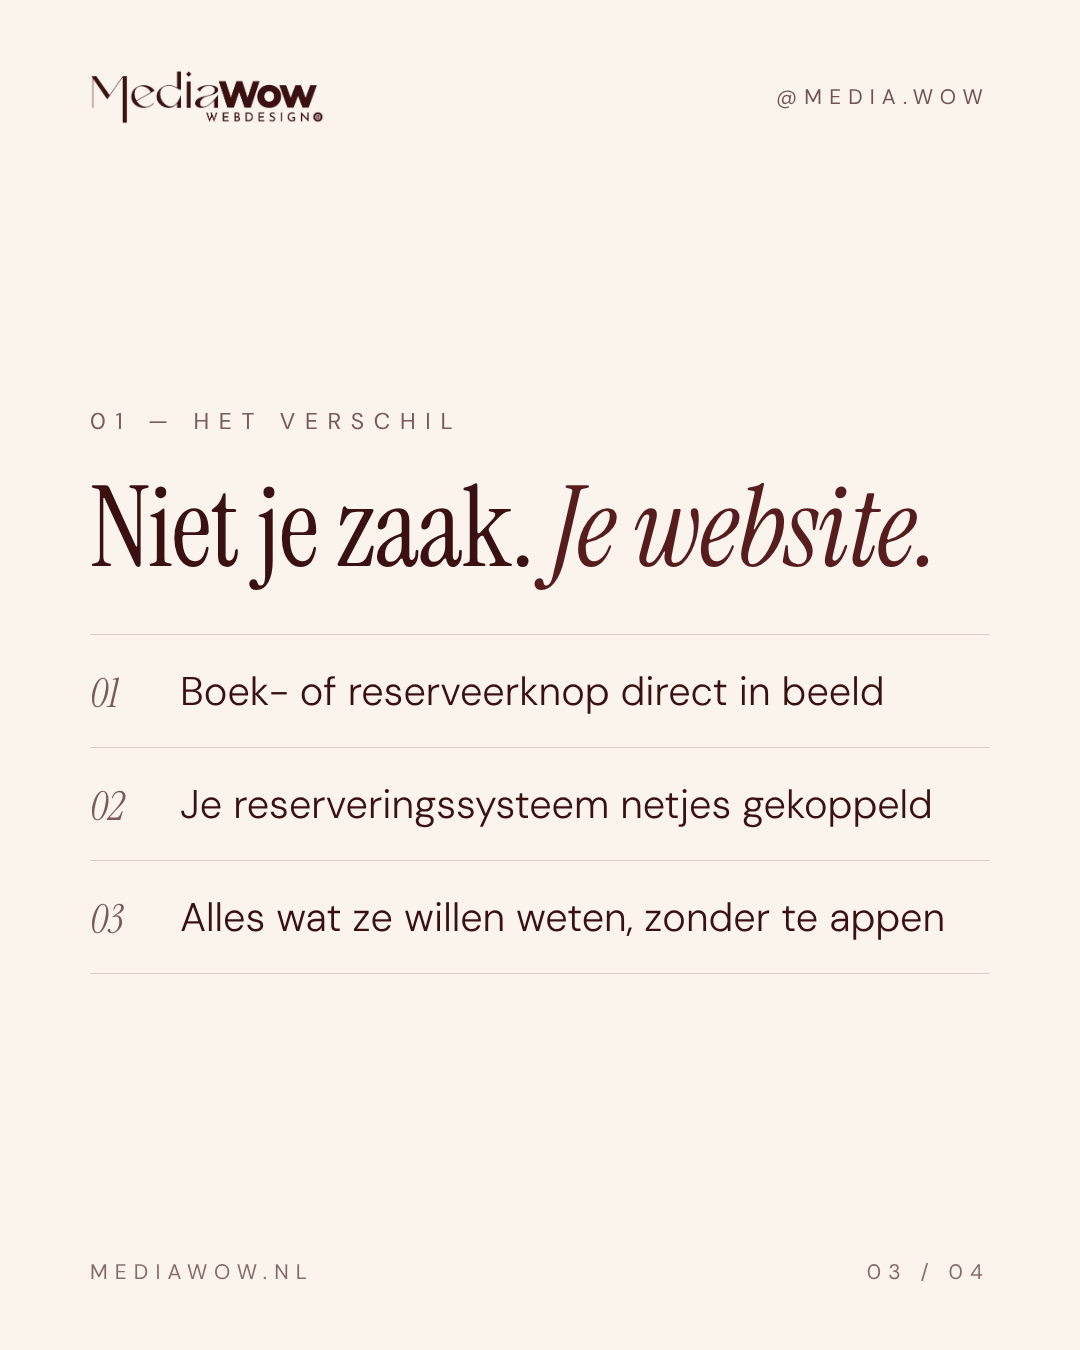
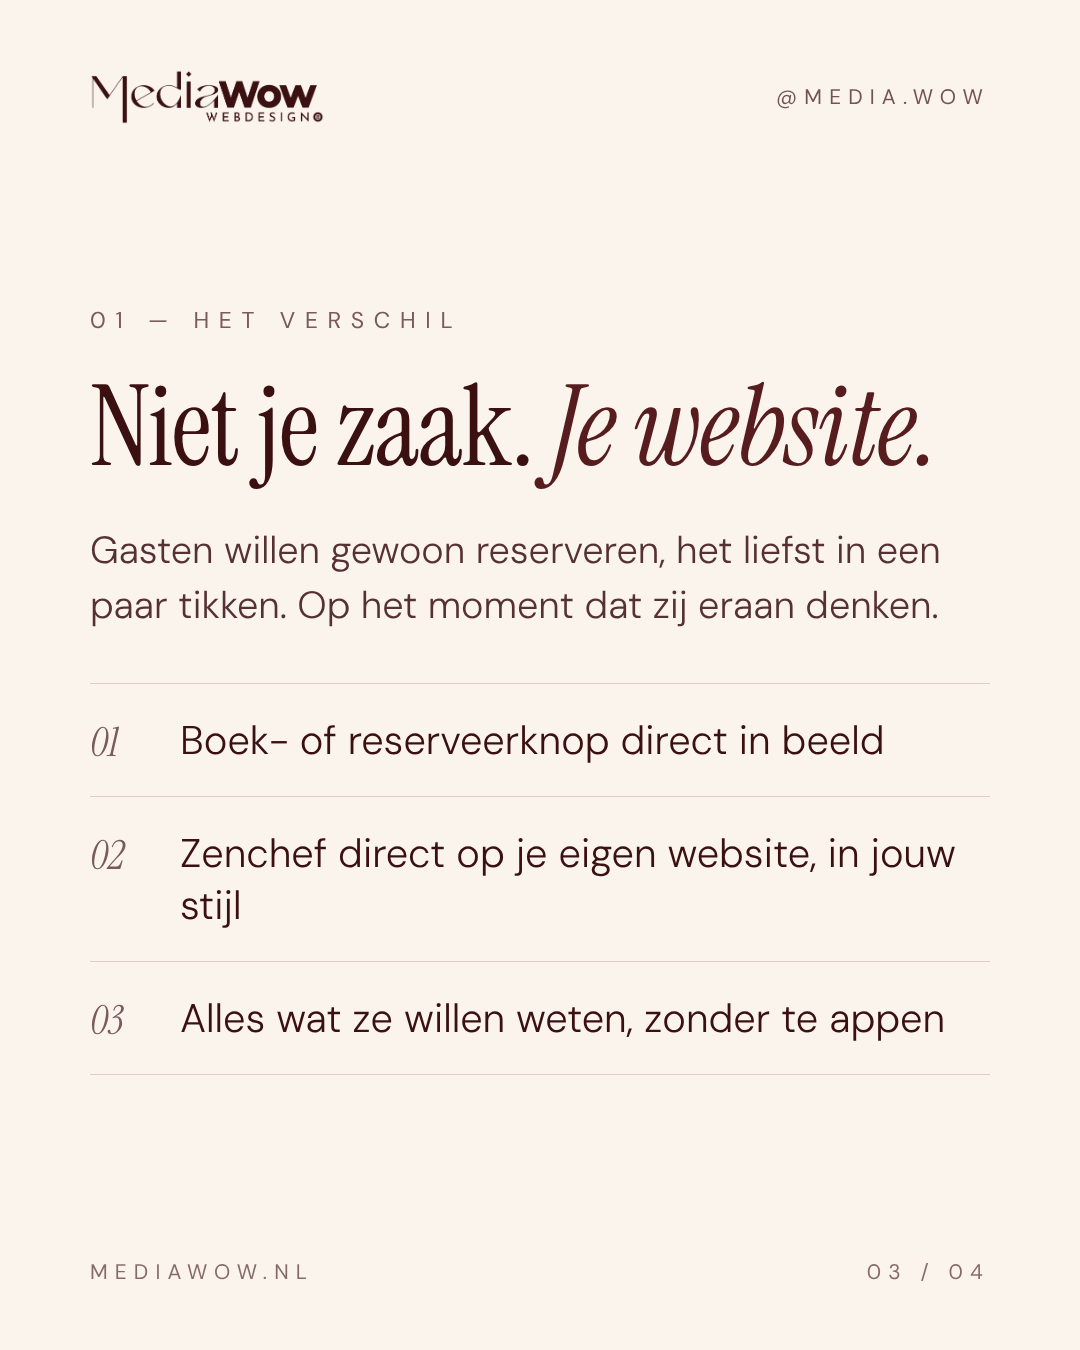
Saturday post: lockscreen full of Zenchef reservations
Claude-Session: https://claude.ai/code/session_01RBQ5c9Pv2G8CobvSf5vDwJ

diff --git a/instagram/slides.js b/instagram/slides.js
@@ -301,15 +301,17 @@ Bonnetje bewaren? Plan een vrijblijvende kennismaking via mediawow.nl (link in b
     id: '6-za-lockscreen',
     slides: [
       { theme: 'dark', html: `
-        <div class="kicker">Zaterdag, 08:30</div>
-        <h1 class="lg">Zo hoort je zaterdag <em>te beginnen.</em></h1>
+        <div class="kicker">Voor horeca · zaterdag 08:30</div>
+        <h1 class="hero">Zo zou jouw zaterdag <em>eruit moeten zien.</em></h1>
         ${phone(`
           <div class="lock"><div class="l-date">zaterdag 21 november</div><div class="l-time">08:30</div>
-            <div class="notif"><b>Reserveringen</b><small>nu</small><p>Nieuwe reservering: 4 personen, vanavond 19:30</p></div>
-            <div class="notif"><b>Boekingen</b><small>4 min</small><p>Nieuwe afspraak: knippen + kleuren, di 10:00</p></div>
-            <div class="notif"><b>Website</b><small>12 min</small><p>Nieuw contactformulier: “Hoi! Ik wil graag…”</p></div>
-            <div class="notif"><b>Reserveringen</b><small>31 min</small><p>Nieuwe reservering: 2 personen, zo 12:30</p></div>
-          </div>`, 'phone-low phone-lock')}` },
+            <div class="notif"><div class="n-ic">🍽</div><div class="n-b"><div class="n-top"><b>Zenchef</b><small>nu</small></div><p>Nieuwe reservering · 4 personen · vanavond 19:30</p></div></div>
+            <div class="notif"><div class="n-ic">🍽</div><div class="n-b"><div class="n-top"><b>Zenchef</b><small>3 min</small></div><p>Nieuwe reservering · 2 personen · vanavond 20:00</p></div></div>
+            <div class="notif"><div class="n-ic">🍽</div><div class="n-b"><div class="n-top"><b>Zenchef</b><small>11 min</small></div><p>Nieuwe reservering · 6 personen · zo 12:30 · verjaardag 🎂</p></div></div>
+            <div class="notif"><div class="n-ic">🍽</div><div class="n-b"><div class="n-top"><b>Zenchef</b><small>24 min</small></div><p>Nieuwe reservering · 2 personen · vanavond 21:00</p></div></div>
+            <div class="notif"><div class="n-ic">🍽</div><div class="n-b"><div class="n-top"><b>Zenchef</b><small>38 min</small></div><p>Nieuwe reservering · 8 personen · vr 19:00</p></div></div>
+            <div class="n-more">+ 7 nieuwe reserveringen</div>
+          </div>`, 'phone-big phone-lock')}` },
       { theme: 'dark', html: `
         <div class="kicker">Of…</div>
         <h1 class="lg"><em>…zo.</em></h1>
@@ -320,9 +322,10 @@ Bonnetje bewaren? Plan een vrijblijvende kennismaking via mediawow.nl (link in b
       { theme: 'cream', html: `
         <div class="kicker">01 — Het verschil</div>
         <h1 class="lg">Niet je zaak. <em>Je website.</em></h1>
+        <p class="lead">Gasten willen gewoon reserveren, het liefst in een paar tikken. Op het moment dat zij eraan denken.</p>
         <div class="list">
           <div><i>01</i>Boek- of reserveerknop direct in beeld</div>
-          <div><i>02</i>Je reserveringssysteem netjes gekoppeld</div>
+          <div><i>02</i>Zenchef direct op je eigen website, in jouw stijl</div>
           <div><i>03</i>Alles wat ze willen weten, zonder te appen</div>
         </div>` },
       { theme: 'cream', html: `
@@ -332,18 +335,19 @@ Bonnetje bewaren? Plan een vrijblijvende kennismaking via mediawow.nl (link in b
         <p class="lead">Reageer PREVIEW en ik stuur je de link voor een gratis preview van je nieuwe website.</p>
         <span class="btn">Reageer: Preview</span>` },
     ],
-    caption: `Zaterdagochtend. Koffie. Telefoon checken. ☕📲
+    caption: `Zo zou jouw zaterdag eruit moeten zien. ☕📲
+Koffie, telefoon erbij… en de ene na de andere reservering via Zenchef.
 
-Zie jij dit… of “Geen meldingen”?
+Of zie jij vooral “Geen meldingen”?
 
 Het verschil zit vaak niet in je zaak, maar in je website:
-✔ boek- of reserveerknop direct in beeld
-✔ reserveringssysteem netjes gekoppeld (Zenchef, Resengo, Salonized, Treatwell)
-✔ alles wat je klant wil weten, zonder te hoeven appen
+✔ een reserveerknop die je direct ziet
+✔ Zenchef netjes op je eigen website, in jouw stijl
+✔ menu, openingstijden en route zonder zoeken
 
-Wil jij meer van die meldingen? Reageer PREVIEW 🤍
+Wil jij meer van die meldingen? Reageer PREVIEW en ik stuur je de link voor een gratis preview van je nieuwe website 🤍
 
-#ondernemen #horeca #salon #websitelatenmaken #webdesign #mediawow`,
+#horeca #restaurant #horecaondernemer #zenchef #restaurantwebsite #webdesign #mediawow`,
   },
 
   // ───────────── ZO: UNPOPULAR OPINION ─────────────

diff --git a/instagram/build.js b/instagram/build.js
@@ -84,7 +84,15 @@ em{font-style:italic}
 .phone .screen{background:#fff;border-radius:56px;height:100%;overflow:hidden;position:relative;color:#1B0405}
 .phone-side{flex:0 0 430px;height:880px;border-radius:62px}
 .phone-low{position:absolute;right:110px;bottom:-170px;width:540px;height:1000px;transform:rotate(4deg)}
-.s:has(.phone-low){justify-content:flex-start;padding-top:190px}
+.s:has(.phone-low),.s:has(.phone-big){justify-content:flex-start;padding-top:190px}
+.phone-big{position:absolute;right:70px;top:500px;width:640px;height:1160px;transform:rotate(3deg)}
+.s:has(.phone-big) .ftr{display:none}
+.s:has(.phone-big) h1.hero{font-size:112px}
+.phone-big .lock{padding:56px 26px}
+.phone-big .l-date{font-size:24px}
+.phone-big .l-time{font-size:104px;margin-bottom:22px}
+.phone-big .notif p{font-size:23px}
+.phone-big .notif{padding:16px 20px;margin-bottom:10px}
 .s:has(.phone-low) .ftr{display:none}
 .phone-sm{width:370px;height:700px;border-radius:52px;padding:12px}
 .phone-sm .screen{border-radius:42px}
@@ -131,10 +139,13 @@ em{font-style:italic}
 .phone-lock .screen{background:linear-gradient(170deg,#2E1517,#561C1E 50%,#A88E78);color:#fff}
 .lock{padding:100px 30px;text-align:center}
 .l-date{font-size:30px;font-weight:500;opacity:.9}
-.l-time{font-size:150px;font-weight:600;letter-spacing:-.03em;line-height:1.05;margin-bottom:40px}
-.notif{text-align:left;background:rgba(255,255,255,.8);color:#111;border-radius:32px;padding:22px 28px;margin-bottom:16px;display:grid;grid-template-columns:1fr auto}
+.l-time{font-size:140px;font-weight:600;letter-spacing:-.03em;line-height:1.05;margin-bottom:30px}
+.notif{text-align:left;background:rgba(255,255,255,.82);color:#111;border-radius:30px;padding:18px 22px;margin-bottom:12px;display:flex;gap:16px;align-items:center}
+.n-ic{flex:0 0 52px;height:52px;border-radius:12px;background:#FAF4ED;display:flex;align-items:center;justify-content:center;font-size:28px}
+.n-b{flex:1}.n-top{display:flex;justify-content:space-between}
+.n-more{margin-top:6px;font-size:22px;color:rgba(255,255,255,.85);background:rgba(255,255,255,.18);border-radius:20px;padding:10px 0}
 .notif b{font-size:25px} .notif small{font-size:22px;color:#666}
-.notif p{grid-column:1/3;font-size:27px;line-height:1.3;margin-top:4px}
+.notif p{font-size:24px;line-height:1.3;margin-top:2px}
 .l-empty{margin-top:120px;font-size:30px;opacity:.75}
 `;
 

diff --git a/instagram/content-plan.md b/instagram/content-plan.md
@@ -89,7 +89,7 @@ Verdeling: **4× ontdekking, 1× vertrouwen, 2× verkoop.** Elke post heeft een 
 | **Wo 18/11** | Vertrouwen | Van wie is jouw website eigenlijk? (4 red flags) | Carousel, 5 slides | 4 red flags · green flags (jouw werkwijze) | DM + tag iemand |
 | **Do 19/11** | Ontdekking | Welke krijgt de reservering? A of B | Carousel, quiz | 2 telefoon-mockups · antwoord + waarom · lijkt jouw site op A? | Comment A/B + PREVIEW |
 | **Vr 20/11** | Verkoop | Je ‘goedkope’ website. Even afrekenen. | Carousel, bonnetjes | DIY-bonnetje vs MediaWow-bonnetje met prijzen | Kennismaking / PREVIEW |
-| **Za 21/11** | Ontdekking + verkoop | Zo hoort je zaterdag te beginnen. | Carousel, lockscreen | Vol vs leeg · verschil zit in je website | Reageer PREVIEW |
+| **Za 21/11** | Ontdekking + verkoop | Zo zou jouw zaterdag eruit moeten zien. (lockscreen vol Zenchef-reserveringen) | Carousel, lockscreen | Vol vs leeg · verschil zit in je website | Reageer PREVIEW |
 | **Zo 22/11** | Ontdekking (gesprek) | Je hebt geen ~~mooiere~~ website nodig. | Carousel, 3 slides | Een website moet iets dóén · mooi is de basis, niet het doel | Eens of oneens? |
 
 Afbeeldingen en captions staan klaar in `week-1/<dag>/` (slide-01.png …, caption.txt).
